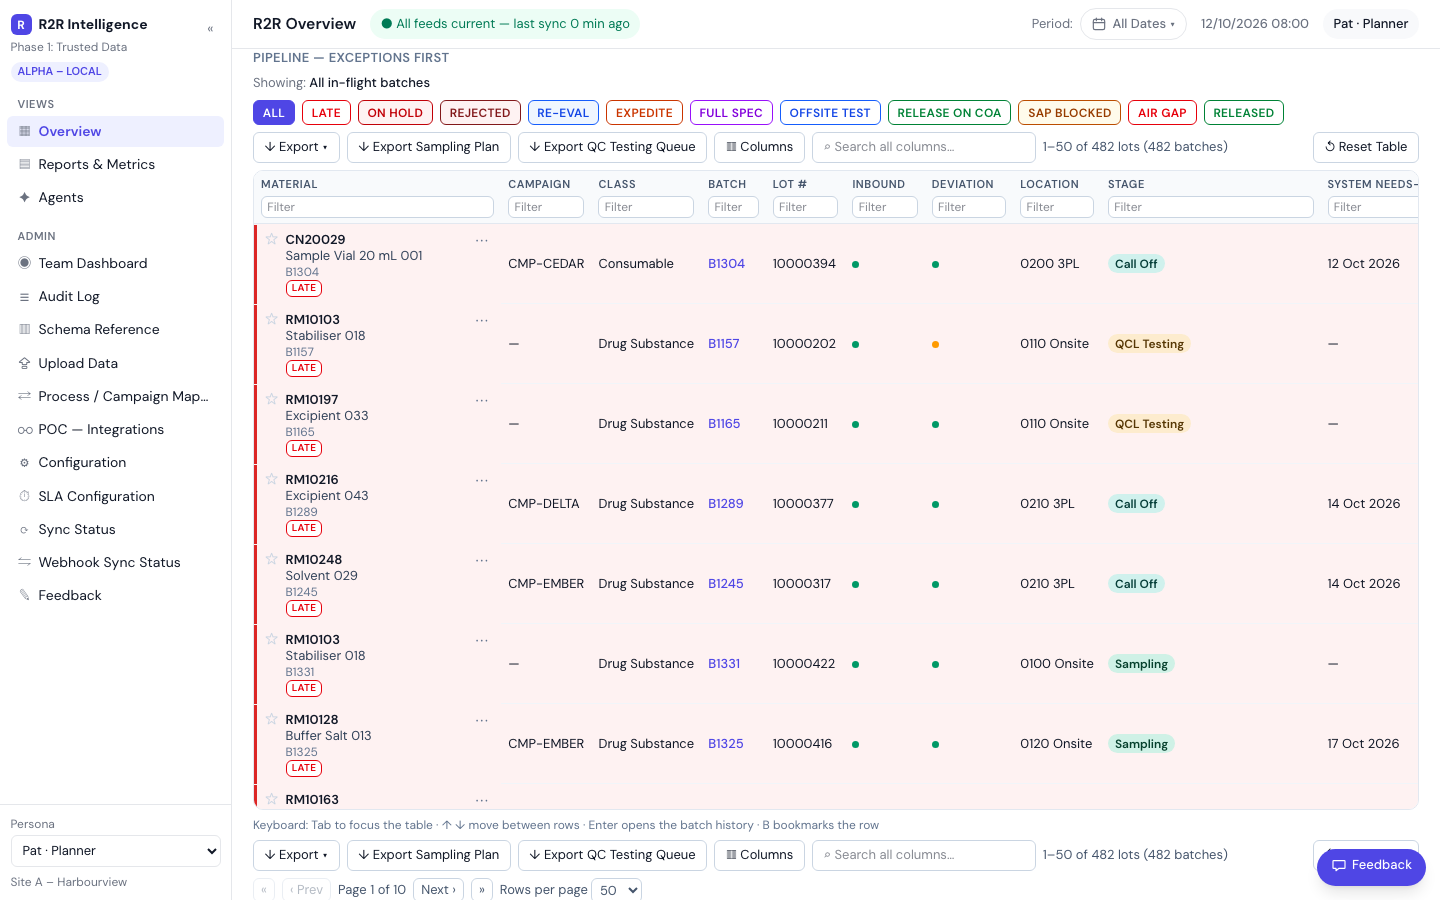
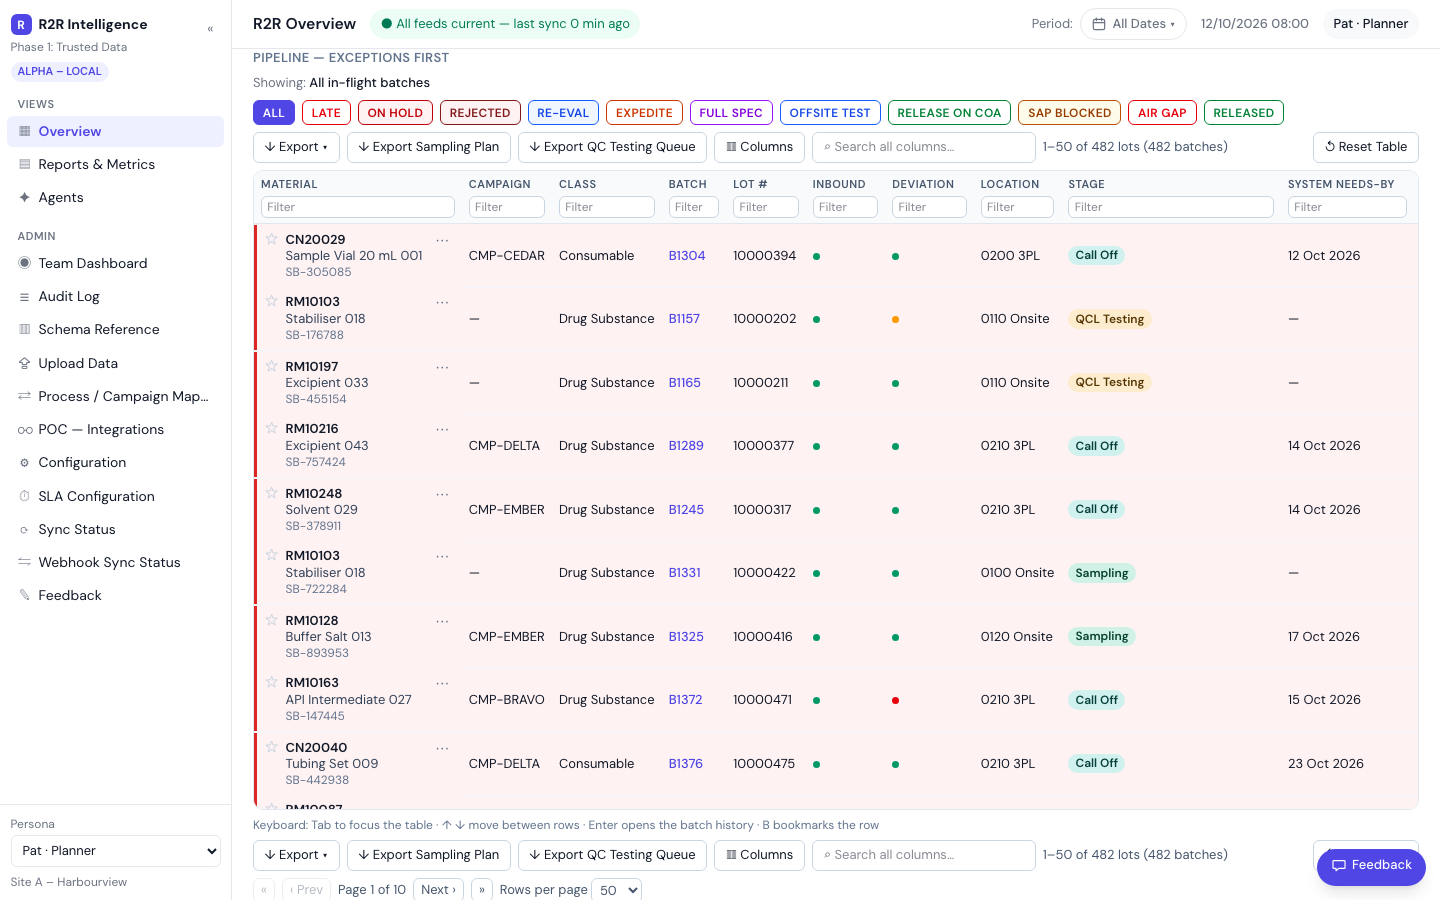
fix(F18): no LATE chip on table rows; supplier batch (SB-nnnnnn) as the material cell's third line [F18-FR-03]

diff --git a/frontend/src/components/overview/OverviewTable.test.tsx b/frontend/src/components/overview/OverviewTable.test.tsx
@@ -88,7 +88,7 @@ test('F18-FR-03: the material cell has star, code, description, supplier batch a
   expect(within(cell).getByText('RM2')).toHaveClass('font-semibold')
   expect(within(cell).getByText('Excipient 017')).toBeInTheDocument()
   expect(within(cell).getByText('SB-2')).toBeInTheDocument()
-  expect(within(cell).getByText('LATE')).toBeInTheDocument()
+  expect(within(cell).queryByText('LATE')).not.toBeInTheDocument() // the red bar and Status carry lateness
   expect(within(cell).getByText('ON HOLD')).toBeInTheDocument()
   expect(within(cell).getByRole('button', { name: 'Bookmark RM2|B202|10002' })).toBeInTheDocument()
 })
@@ -202,4 +202,13 @@ test('F18-FR-03c: the Inbound and Deviation cells are 8 px dots in green, amber,
   const inbound = screen.getByRole('img', { name: 'Inbound check: red' })
   expect(inbound).toHaveClass('h-2', 'w-2', 'bg-red-600')
   expect(screen.getByRole('img', { name: 'Deviations: none recorded' })).toHaveClass('bg-slate-300')
+})
+
+test('F18: the third line of the material cell is the supplier batch, and is omitted when there is none', () => {
+  const { unmount } = show([makeRow(1)])
+  const lines = () => within(within(screen.getByTestId('batch-row')).getAllByRole('cell')[0]!).getByText('RM1').parentElement!.children
+  expect(Array.from(lines()).map((el) => el.textContent)).toEqual(['RM1', 'Excipient 017', 'SB-1', ''])
+  unmount()
+  show([makeRow(1, { supplier_batch: null } as unknown as Partial<Row>)])
+  expect(screen.getByTestId('batch-row')).not.toHaveTextContent('SB-')
 })

diff --git a/frontend/src/components/overview/cells.tsx b/frontend/src/components/overview/cells.tsx
@@ -11,7 +11,8 @@ type Hl = (text: string) => ReactNode
 /** The tags that apply to a row, in the tag row's order (F18-FR-03a). */
 export function rowTags(row: Row, terms: Terms): Tag[] {
   const flags = row.flags as unknown as Record<string, boolean>
-  return tagRow(terms).filter((tag) => tag.keys.some((key) => flags[key]))
+  // LATE stays in the filter tag row: the red bar and the Status column carry lateness on the row.
+  return tagRow(terms).filter((tag) => tag.id !== 'late' && tag.keys.some((key) => flags[key]))
 }
 
 /** A chip in the tag's own colours, without the hover effect of the tag-row button. */
@@ -45,7 +46,7 @@ export function MaterialCell({ row, terms, hl, star, actions }: MaterialProps) {
       <div className="flex flex-col leading-tight">
         <span className="font-semibold">{hl(row.material_no)}</span>
         <span className="text-slate-700">{hl(row.material_desc ?? '')}</span>
-        <span className="text-xs text-slate-500">{hl(row.supplier_batch ?? '')}</span>
+        {row.supplier_batch ? <span className="text-xs text-slate-500">{hl(row.supplier_batch)}</span> : null}
         <span className="flex gap-1 empty:hidden">
           <TagChips row={row} terms={terms} />
         </span>

diff --git a/tests/e2e/specs/16-overview-table.spec.ts b/tests/e2e/specs/16-overview-table.spec.ts
@@ -247,6 +247,8 @@ test('F18-AC-07: late rows read LATE +Nd with a red Expected Completion (Nd over
   await page.goto(`/overview?q=${encodeURIComponent(late.batch_no)}`)
   const row = page.locator(`[data-testid=batch-row][data-row-key="${late.row_key}"]`)
   await expect(row.getByTestId('status-cell')).toHaveText(`LATE +${n}d`)
+  await expect(row.getByText('LATE', { exact: true })).toHaveCount(0) // no LATE chip on the row
+  await expect(row.getByText(/^SB-\d{6}$/)).toBeVisible() // third line: the supplier batch, not the batch number
   await expect(row.getByTestId('expected-cell')).toContainText(`(${n}d over)`)
   await expect(row.getByTestId('expected-cell')).toHaveClass(/text-red-700/)
   if (amber) {

diff --git a/services/datagen/tests/test_f18_supplier_batches.py b/services/datagen/tests/test_f18_supplier_batches.py
@@ -1,0 +1,32 @@
+"""The supplier batch of every plan batch is generic, unique and not the internal batch number."""
+
+import re
+
+from datagen.events import plan_events
+from datagen.model import Plan
+from datagen.params import Params
+from datagen.planner import build_plan
+from r2r_core.profile import SiteProfile
+
+
+def test_f18_every_batch_has_a_generic_supplier_batch_that_is_not_its_batch_number(plan: Plan) -> None:
+    numbers = [b.supplier_batch for b in plan.batches]
+    assert all(n is not None and re.fullmatch(r"SB-\d{6}", n) for n in numbers)
+    assert len(set(numbers)) == len(numbers)
+    assert all(b.supplier_batch != b.charg for b in plan.batches)
+
+
+def test_f18_story_supplier_batches_are_the_same_whatever_the_seed(
+    profile: SiteProfile, params: Params, plan: Plan
+) -> None:
+    other = build_plan(profile, params, 7)
+    stories = lambda p: {b.charg: b.supplier_batch for b in p.batches if b.story_id}  # noqa: E731
+    assert stories(other) == stories(plan)
+    assert stories(plan)["B2077"] == "SB-902077"
+
+
+def test_f18_the_goods_receipt_event_carries_the_supplier_batch(plan: Plan) -> None:
+    by_batch = {(b.matnr, b.charg): b.supplier_batch for b in plan.batches}
+    receipts = [e for e in plan_events(plan) if e.kind == "goods_receipt"]
+    assert receipts
+    assert all(e.body["licha"] == by_batch[(e.body["matnr"], e.body["charg"])] for e in receipts)

diff --git a/services/datagen/src/datagen/supplier_batches.py b/services/datagen/src/datagen/supplier_batches.py
@@ -1,0 +1,34 @@
+"""Supplier batch numbers for the plan (the third line of the Overview material cell).
+
+Every batch gets a generic supplier batch, ``SB-`` and six digits, so it never reads as the internal batch
+number. Story batches are the same whatever the seed, so they draw nothing: their number follows from the
+internal one. All draws use their own stream, so nothing planned before is reshuffled.
+"""
+
+import re
+
+from datagen.model import Plan
+from datagen.rng import stream
+
+STREAM = "supplier_batches"
+STORY_BASE = 900_000
+
+
+def plan_supplier_batches(plan: Plan) -> None:
+    """Set ``supplier_batch`` on every batch; the numbers are unique across the plan."""
+    rng = stream(plan.seed, STREAM)
+    used: set[str] = set()
+    for batch in plan.batches:
+        digits = re.sub(r"\D", "", batch.charg)
+        if batch.story_id is not None and digits:
+            batch.supplier_batch = f"SB-{STORY_BASE + int(digits)}"
+            used.add(batch.supplier_batch)
+    for batch in plan.batches:
+        if batch.story_id is not None and batch.supplier_batch:
+            continue
+        while True:
+            candidate = f"SB-{rng.randint(100_000, 899_999)}"
+            if candidate not in used:
+                break
+        used.add(candidate)
+        batch.supplier_batch = candidate

diff --git a/services/datagen/src/datagen/planner.py b/services/datagen/src/datagen/planner.py
@@ -26,6 +26,7 @@ from datagen.params import Params
 from datagen.po_lines import plan_po_lines
 from datagen.quirks import apply_quirks
 from datagen.stories import StoryResult, build_stories
+from datagen.supplier_batches import plan_supplier_batches
 from datagen.timeline import (
     OPEN_SAMPLED_STAGES,
     Builder,
@@ -59,6 +60,7 @@ def build_plan(profile: SiteProfile, params: Params, seed: int, world: World | N
     apply_quirks(plan, params, profile)
     plan_po_lines(plan, params)
     plan_next_inspection(plan)
+    plan_supplier_batches(plan)
     return plan
 
 

diff --git a/services/datagen/src/datagen/model.py b/services/datagen/src/datagen/model.py
@@ -116,6 +116,7 @@ class BatchPlan:
     blocks: list[tuple[date, bool]] = field(default_factory=list)  # (day, block/unblock)
     story_id: str | None = None
     po_ref: str | None = None  # the PO line this delivery closes (F17); set after the plan is built
+    supplier_batch: str | None = None  # mcha.licha: the supplier's own number, never the internal batch
     next_inspection: date | None = None  # mcha.qnext (F18, OQ-100); None for consumables
 
     @property

diff --git a/services/datagen/src/datagen/events.py b/services/datagen/src/datagen/events.py
@@ -55,6 +55,7 @@ def _lot_events(batch: BatchPlan, lot: LotPlan) -> list[Event]:
                     "budat": lot.start,
                     "hsdat": lot.start - MANUFACTURE_LEAD,
                     "vfdat": lot.start + timedelta(days=730),
+                    "licha": batch.supplier_batch,
                     "qnext": batch.next_inspection,
                     "pastrterm": lot.start,
                     "ebeln": po_ref(batch),
